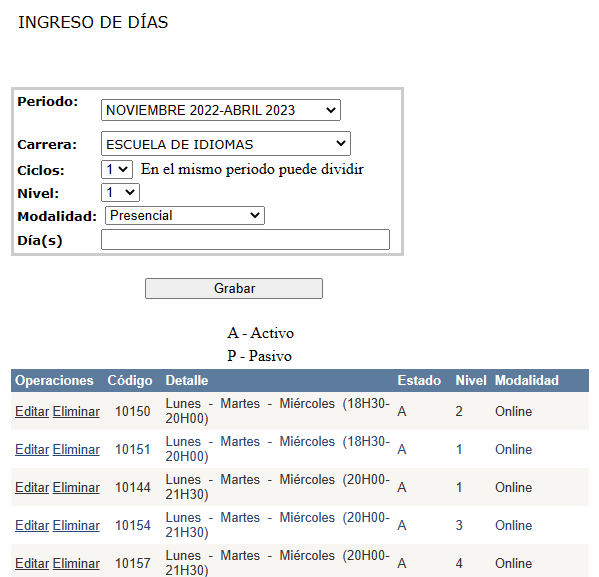
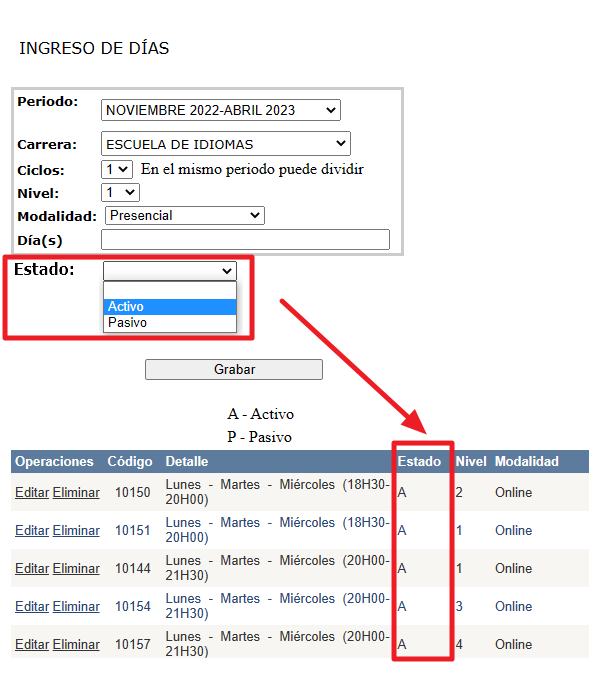
Cambios al Readme y sus imágenes

Changed region(s): [[0.0, 0.1248, 0.9917, 1.0], [0.0301, 0.0312, 0.2705, 0.0936], [0.601, 0.5615, 0.6311, 0.5927]]

diff --git a/README.md b/README.md
@@ -34,7 +34,25 @@ Password: Itq_2023
 
 Sitio GitHub con el código: <https://github.com/vmejiaec/SA-ITQ>
 
-# Periodos académicos
+# Ejecución del código en Visual Studio 2015
+
+Para ejecutar el código localmente en tu computadora, debes clonar el repositorio y 
+luego buscar el archivo "sistema.sln". Al abrir el archivo el VS2015 presentará todas 
+las pantallas del proyecto. Con pulsar en el botón "run" se inicia la ejecución de la
+aplicación web
+
+![VS2015 Open](media/VSOpen.png)
+
+![VS2015 Run](media/VSRun.png)
+
+# Usuario del Sistema Académico para pruebas
+
+usuario: desa
+password: desa
+
+![Usuario para pruebas](media/SA-ITQ-Login.png)
+
+# Creación de periodos académicos
 
 ## Pantalla: PeriodosAcademicos.aspx
 
@@ -44,7 +62,7 @@ Agregar los campos de  fecha de inicio y final del período de matrículas, para
 
 Fecha_Inicio_Matriculas, Fecha_Fin_Matriculas
 
-# Asignaturas
+# Creación de Asignaturas
 
 ## Pantalla: IngresarMaterias.aspx
 
@@ -52,13 +70,13 @@ Fecha_Inicio_Matriculas, Fecha_Fin_Matriculas
 
 Agregar la opción de añadir el número de horas a elegir entre los valores de 36 o 64, y el cálculo del valor del crédito, como resultado de la operación con los datos del valor hora y el número de horas.
 
-# Días para la matrícula
+# Crear días para la matrícula
 
 ## Pantalla: IngresoDiasMatricula.aspx
 
 ![Tabla Descripción generada automáticamente](media/389ea91a658cc6bd2ebf1688402ab77a.png)
 
-Permitir elegir los estados entre una lista que tenga las opciones A – Activo, P – Pasivo
+Permitir elegir los estados entre una lista desplegable que tenga las opciones A – Activo, P – Pasivo
 
 # Registro en línea de la matrícula de inglés
 
@@ -68,7 +86,7 @@ Permitir elegir los estados entre una lista que tenga las opciones A – Activo,
 
 Esta pantalla debe consulta a la base, a la tabla de períodos académicos, para saber si existe un período de matrículas vigente a la fecha actual, si es así, debe permitir continuar con un mensaje que indique las fechas de inicio y fin del período de matrículas; y, caso contrario, que presente la información de las fechas, pero con el aviso que el período a vencido y no permita utilizar la pantalla.
 
-# Profesor nuevo
+# Creación de un profesor nuevo
 
 ## Pantalla: IngNuevoDocente.aspx
 
